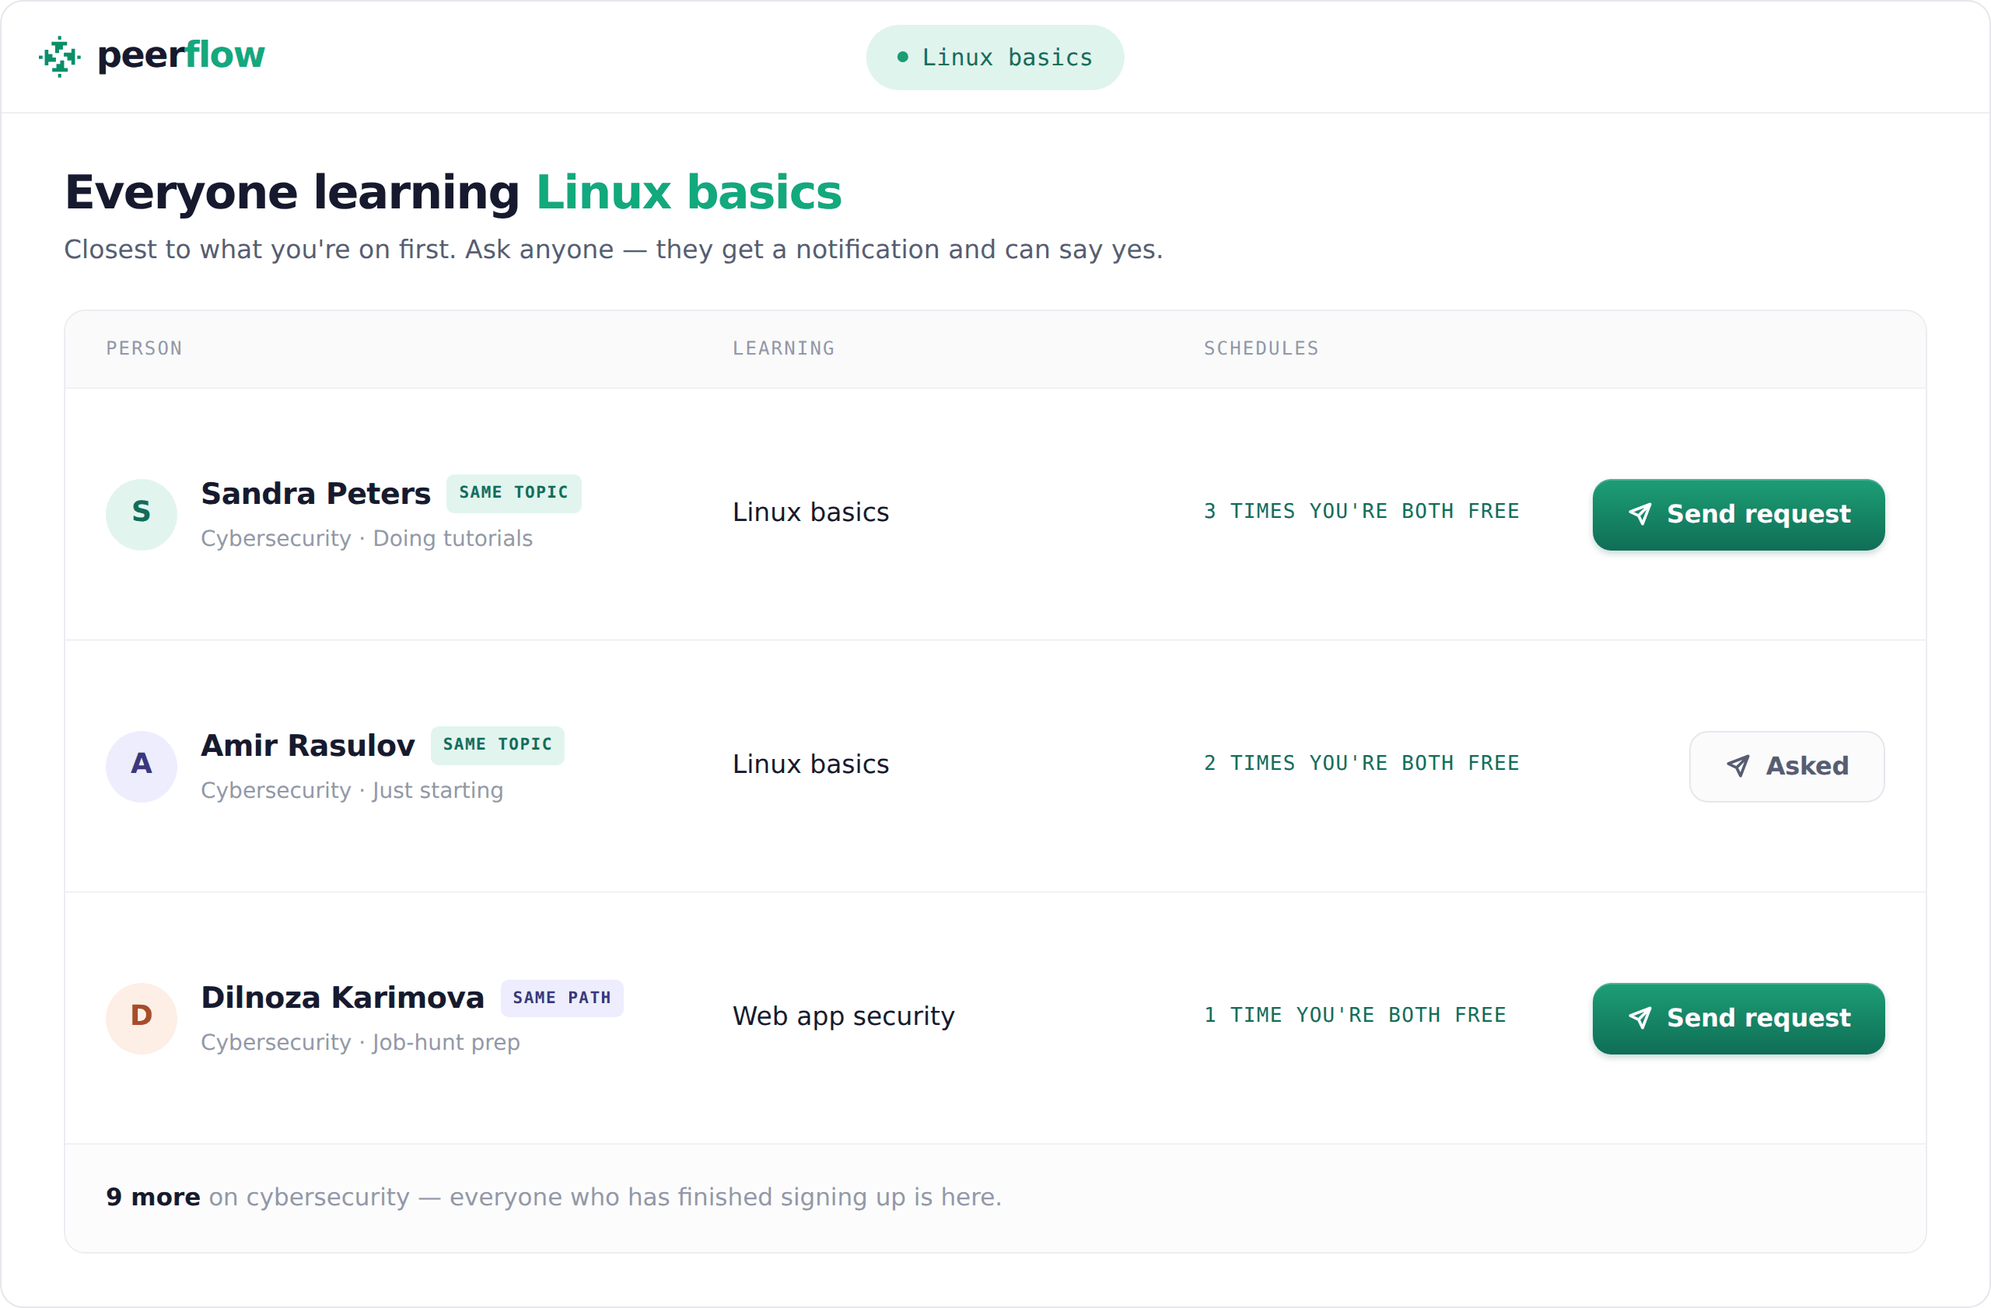
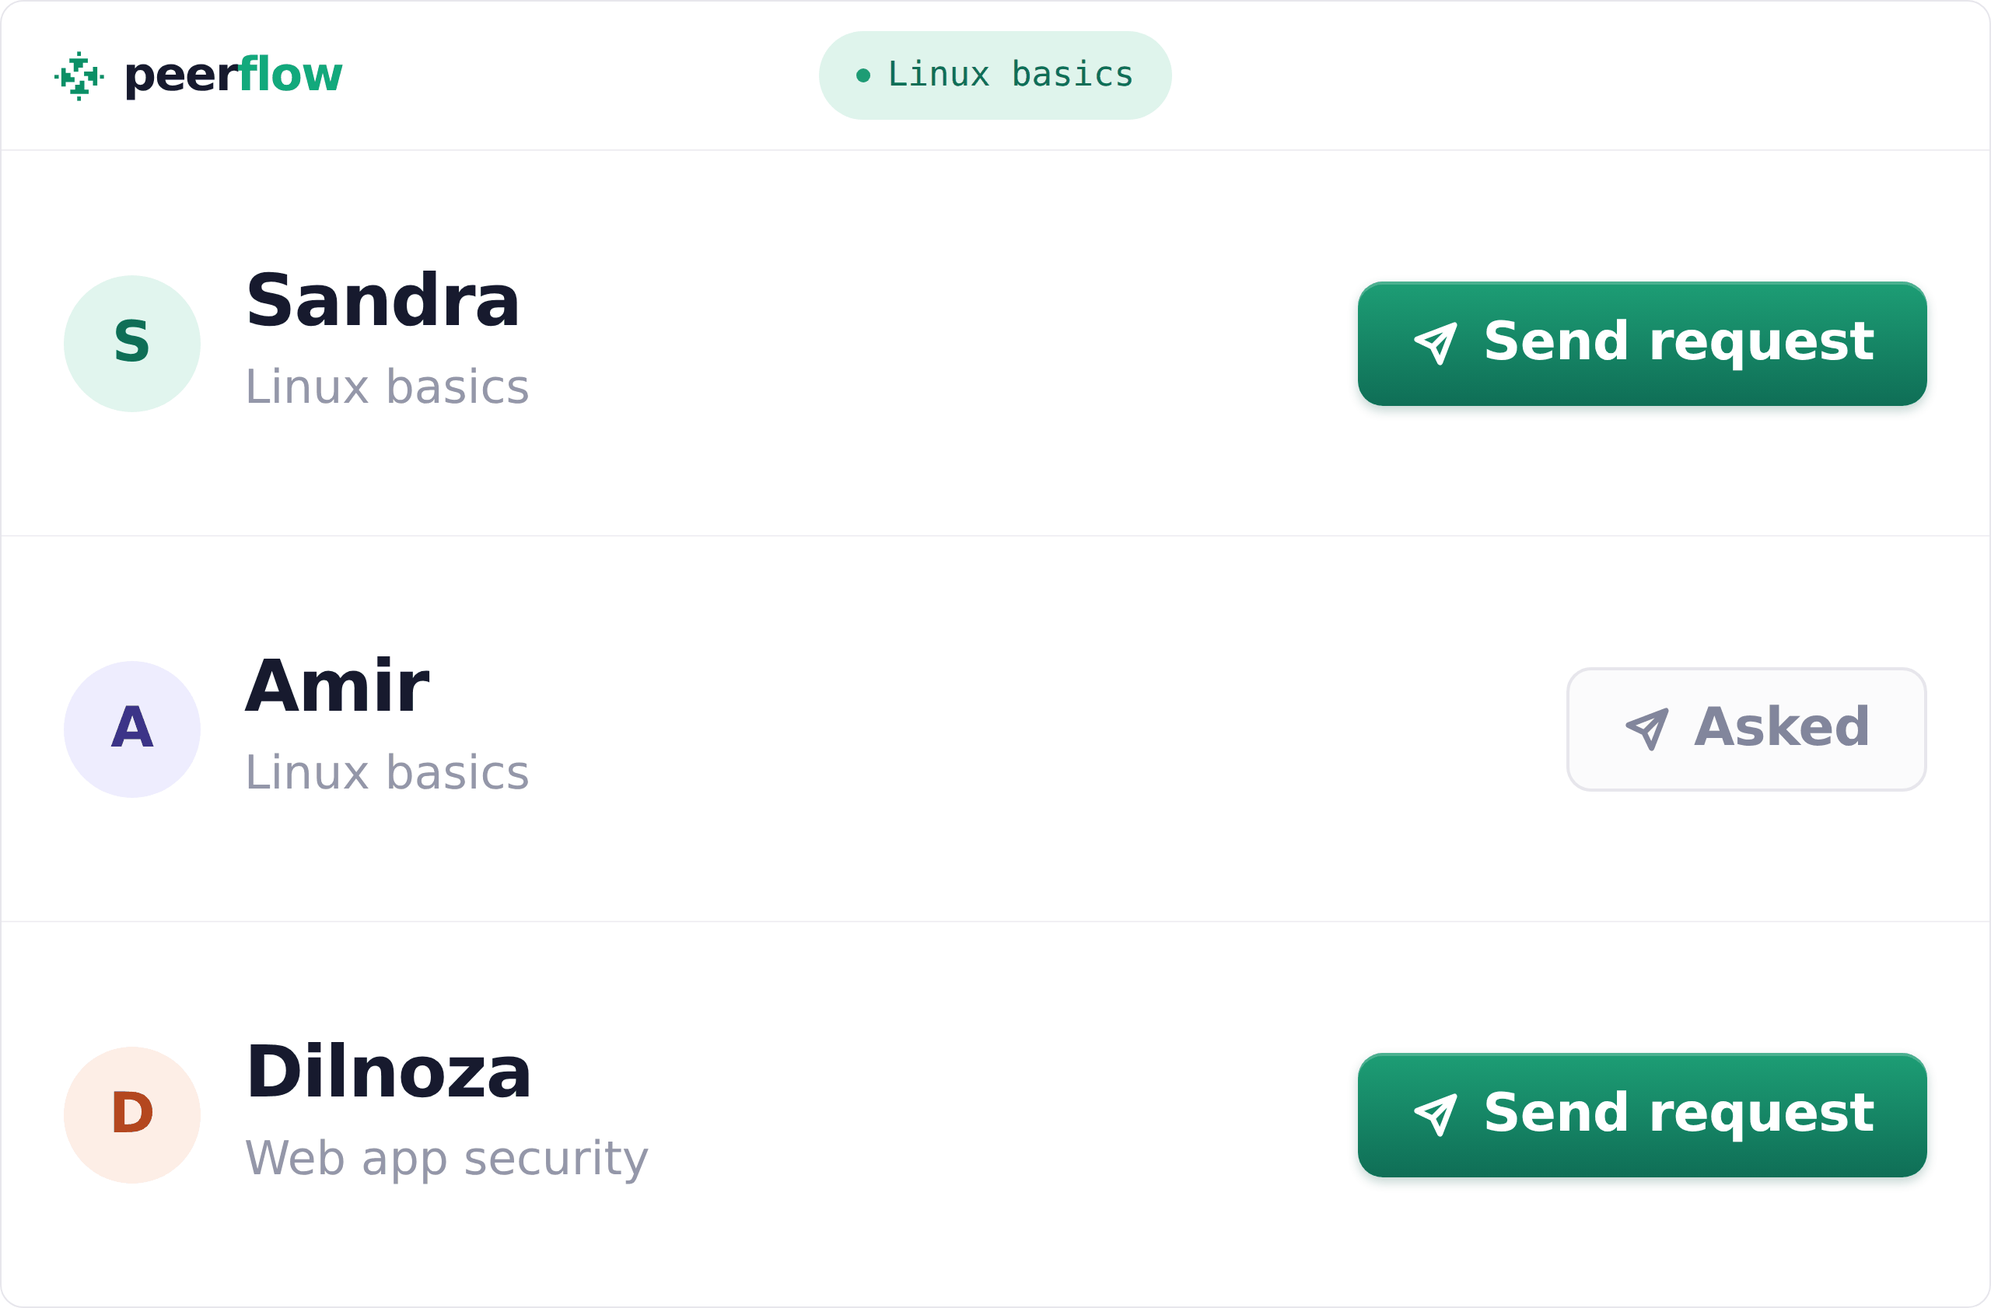
Redraw the step pictures for the size they are actually seen at
The three-across layout gives each picture 322px, a quarter of the canvas they
were drawn on. At that width a faithful screenshot is a grey blur: the table
header, the column of topics, the schedule counts and the tags all survive as
texture and none of them as information.

So they carry about a fifth of what they did. Finding someone is three rows of
avatar, first name, what they're learning, and a button — no columns, no tags,
no counts. Agreeing a time is three day tiles with one picked, the result in
one line, and the button. Everything is drawn near four times its final size,
which is why the type looks enormous at full resolution and correct at 322.

Both are lighter too, 53KB and 47KB, because there is less in them.

Claude-Session: https://claude.ai/code/session_01YKC4UuyUEYgQuEBKY8hLuJ

diff --git a/assets/how-frames.html b/assets/how-frames.html
@@ -2,207 +2,130 @@
 <html lang="en">
 <head>
 <meta charset="utf-8">
-<title>How it works — frames</title>
-<link rel="stylesheet" href="assets/app.css">
+<title>How it works — source for the step pictures</title>
+<link rel="stylesheet" href="app.css">
 <style>
+  /* These render to assets/how-1-find.png and assets/how-2-time.png.
+     They sit in a 322px-wide card on the landing page, which is a quarter of
+     this canvas — so everything is drawn about four times the size it will be
+     read at, and carries roughly a fifth of what the real screen does. A
+     faithful screenshot is a grey blur at that width; this has to land in one
+     glance or it isn't doing anything. */
   body{margin:0;background:#fff;font-family:var(--body)}
 
-  /* The frame, matched to the call mock-up: white card, hairline border,
-     a bar with the wordmark left and the topic pill centred. */
   .frame{width:1280px;height:841px;background:#fff;border:1px solid #E7E6EC;
-    border-radius:15px;overflow:hidden;display:flex;flex-direction:column;
-    margin:0 0 40px}
-  .fbar{height:72px;flex:0 0 auto;border-bottom:1px solid #EFEEF2;
-    display:flex;align-items:center;padding:0 24px;position:relative}
-  .fbrand{display:flex;align-items:center;gap:10px;font-size:23px;font-weight:800;
-    letter-spacing:-.03em;color:var(--ink)}
-  /* One text node, or the flex gap opens a space inside the word. */
-  .fbrand b{font-weight:800}
+    border-radius:15px;overflow:hidden;display:flex;flex-direction:column;margin:0 0 40px}
+
+  /* A slimmer version of the bar on the video-call frame. At final size it
+     reads as window chrome, which is the whole job. */
+  .fbar{height:96px;flex:0 0 auto;border-bottom:1px solid #EFEEF2;
+    display:flex;align-items:center;padding:0 34px;position:relative}
+  .fbrand{display:flex;align-items:center;gap:12px}
+  .fbrand b{font-size:30px;font-weight:800;letter-spacing:-.03em;color:var(--ink)}
   .fbrand .g{color:#12A97C}
-  .fpill{position:absolute;left:50%;transform:translateX(-50%);
-    display:inline-flex;align-items:center;gap:9px;background:#DFF4EC;
-    color:#0F6E56;font-family:var(--mono);font-size:15px;letter-spacing:.01em;
-    padding:9px 20px;border-radius:999px}
-  .fpill i{width:7px;height:7px;border-radius:50%;background:#1D9E75;display:block}
-  .fbody{flex:1;min-height:0;padding:34px 40px;display:flex;flex-direction:column}
+  .fpill{position:absolute;left:50%;transform:translateX(-50%);display:inline-flex;
+    align-items:center;gap:11px;background:#DFF4EC;color:#0F6E56;font-family:var(--mono);
+    font-size:22px;padding:11px 24px;border-radius:999px}
+  .fpill i{width:9px;height:9px;border-radius:50%;background:#1D9E75;display:block}
+  .fbody{flex:1;min-height:0;display:flex;flex-direction:column}
 
-  /* ---------- 1. people ---------- */
-  .h1{font-size:30px;font-weight:800;letter-spacing:-.028em;margin:0 0 6px}
-  .h1 .g{color:#12A97C}
-  .lede{font-size:16.5px;color:var(--soft);margin:0 0 24px}
-
-  .plist{border:1px solid #EDECF1;border-radius:14px;overflow:hidden;
-    flex:1;min-height:0;display:flex;flex-direction:column}
-  .prow{display:grid;grid-template-columns:minmax(0,1.35fr) minmax(0,1fr) 210px 210px;
-    align-items:center;gap:18px;padding:34px 26px;border-top:1px solid #F1F0F4;flex:1}
+  /* ---------- 1. three people, three buttons ---------- */
+  .prow{display:flex;align-items:center;gap:28px;padding:0 40px;flex:1;
+    border-top:1px solid #F1F0F4}
   .prow:first-child{border-top:0}
-  .phead{background:#FAFAFB;padding:15px 26px;font-family:var(--mono);font-size:12px;
-    letter-spacing:.09em;text-transform:uppercase;color:#9497A9;
-    display:grid;grid-template-columns:minmax(0,1.35fr) minmax(0,1fr) 210px 210px;gap:18px}
-  .pwho{display:flex;align-items:center;gap:15px;min-width:0}
-  .pav{width:46px;height:46px;border-radius:50%;flex:0 0 auto;display:grid;place-items:center;
-    font-size:18px;font-weight:800}
-  .pnm{font-size:19px;font-weight:700;letter-spacing:-.015em;display:flex;
-    align-items:center;gap:10px}
-  .ptag{font-family:var(--mono);font-size:10.5px;letter-spacing:.07em;text-transform:uppercase;
-    background:#E1F5EE;color:#0F6E56;padding:4px 8px;border-radius:5px}
-  .ptag.alt{background:#EEEDFE;color:#3C3489}
-  .psub{font-size:14px;color:#9497A9;margin-top:3px}
-  .ptp{font-size:16.5px;color:var(--ink)}
-  .pfree{font-family:var(--mono);font-size:13px;letter-spacing:.05em;text-transform:uppercase;
-    color:#0F6E56}
-  .pfree.none{color:#B6B8C4}
-  .pbtn{justify-self:end;height:46px;border-radius:12px;display:inline-flex;align-items:center;
-    justify-content:center;gap:9px;padding:0 22px;font-size:16px;font-weight:700;
-    letter-spacing:-.01em;white-space:nowrap;border:0;color:#fff;
+  .pav{width:88px;height:88px;border-radius:50%;flex:0 0 auto;display:grid;place-items:center;
+    font-size:36px;font-weight:800}
+  .pwho{flex:1;min-width:0}
+  .pnm{display:block;font-size:46px;font-weight:700;letter-spacing:-.02em;line-height:1.15}
+  .psub{display:block;font-size:30px;color:#9497A9;margin-top:6px}
+  .pbtn,.pdone{flex:0 0 auto;height:80px;border-radius:16px;display:inline-flex;
+    align-items:center;gap:14px;padding:0 34px;font-size:34px;font-weight:700;
+    letter-spacing:-.01em;white-space:nowrap}
+  .pbtn{border:0;color:#fff;background:linear-gradient(180deg,#1D9E75,#0F6E56);
+    box-shadow:0 3px 7px rgba(8,80,65,.24), inset 0 2px 0 rgba(255,255,255,.2)}
+  .pdone{border:2px solid #E7E6EC;background:#FBFBFC;color:#82869C}
+  .pbtn svg,.pdone svg{width:32px;height:32px;flex:0 0 auto}
+
+  /* ---------- 2. one time, one button ---------- */
+  .tbody{flex:1;display:flex;flex-direction:column;align-items:center;
+    justify-content:center;padding:0 40px}
+  .tkick{font-family:var(--mono);font-size:24px;letter-spacing:.1em;text-transform:uppercase;
+    color:#9497A9;margin:0 0 30px}
+  .tdays{display:flex;gap:20px;margin-bottom:46px}
+  .tday{width:150px;border:2px solid #E7E6EC;border-radius:20px;padding:20px 0 22px;
+    text-align:center;background:#fff}
+  .tday .w{display:block;font-family:var(--mono);font-size:22px;letter-spacing:.07em;
+    text-transform:uppercase;color:#9497A9}
+  .tday .d{display:block;font-size:54px;font-weight:800;letter-spacing:-.03em;
+    line-height:1.1;margin-top:2px;color:var(--ink)}
+  .tday.on{background:#0F6E56;border-color:#0F6E56}
+  .tday.on .w{color:#9FE1CB}
+  .tday.on .d{color:#fff}
+  .twhen{font-size:60px;font-weight:800;letter-spacing:-.03em;color:var(--ink);margin:0 0 40px}
+  .twhen .t{color:#0F6E56}
+  .tgo{height:92px;border-radius:18px;display:inline-flex;align-items:center;padding:0 44px;
+    font-size:36px;font-weight:700;letter-spacing:-.01em;color:#fff;
     background:linear-gradient(180deg,#1D9E75,#0F6E56);
-    box-shadow:0 2px 4px rgba(8,80,65,.22), inset 0 1px 0 rgba(255,255,255,.2)}
-  .pstate2{justify-self:end;height:46px;border-radius:12px;display:inline-flex;align-items:center;
-    justify-content:center;gap:9px;padding:0 22px;font-size:16px;font-weight:700;
-    letter-spacing:-.01em;white-space:nowrap;border:1px solid #E7E6EC;background:#FBFBFC;color:#585C74}
-  .pstate2 svg,.pbtn svg{width:17px;height:17px;flex:0 0 auto}
-  .pfoot{margin-top:auto;border-top:1px solid #F1F0F4;background:#FCFCFD;
-    padding:22px 26px;font-size:15.5px;color:#9497A9}
-  .pfoot b{color:var(--ink);font-weight:700}
-
-  /* ---------- 2. scheduling ---------- */
-  .sheet{border:1px solid #EDECF1;border-radius:16px;padding:34px 38px 38px;position:relative;
-    flex:1;min-height:0;display:flex;flex-direction:column}
-  .skick{font-family:var(--mono);font-size:12px;letter-spacing:.09em;text-transform:uppercase;
-    color:#0F6E56;margin:0 0 4px}
-  .stitle{font-size:22px;font-weight:700;letter-spacing:-.02em;margin:0 0 46px}
-  .ssent{font-size:31px;line-height:1.75;font-weight:500;color:#585C74;letter-spacing:-.018em;margin:0}
-  .sw{position:relative;display:inline-block}
-  .strig{font-size:31px;font-weight:800;color:#0F6E56;letter-spacing:-.024em;
-    border-bottom:3px solid #9FE1CB;padding:0 26px 3px 0;position:relative;display:inline-block}
-  .strig::after{content:"";position:absolute;top:50%;right:6px;width:10px;height:10px;
-    border-right:3px solid currentColor;border-bottom:3px solid currentColor;opacity:.55;
-    transform:translateY(-75%) rotate(45deg)}
-  .strig.open{color:#085041;border-bottom-color:#0F6E56}
-  .strig.open::after{transform:translateY(-30%) rotate(-135deg)}
-  .sline{margin:20px 0 0;font-size:17px;color:#9497A9}
-
-  .smenu{position:absolute;top:calc(100% + 14px);left:-10px;width:330px;z-index:5;
-    background:#fff;border:1px solid #E7E6EC;border-radius:16px;padding:7px;
-    box-shadow:0 20px 46px rgba(23,26,46,.16),0 3px 8px rgba(23,26,46,.06)}
-  .smh{font-family:var(--mono);font-size:11px;letter-spacing:.09em;text-transform:uppercase;
-    color:#9497A9;padding:11px 15px 7px}
-  .smsep{display:block;height:1px;background:#EFEEF2;margin:7px}
-  .smrow{display:flex;align-items:center;width:100%;padding:12px 15px;border-radius:11px;
-    font-size:18px;font-weight:600;color:var(--ink)}
-  .smrow.on{background:#E1F5EE;color:#085041}
-  .smrow .r{margin-left:auto;font-weight:400;font-size:16px;color:#9497A9}
-  .smrow.on .r{color:#0F6E56}
-  .smrow.mild{color:#0F6E56;font-size:17px}
-
-  .sform{margin:auto 0}
-  .snote{margin:40px 0 0}
-  .snote label{display:block;font-size:15px;font-weight:600;margin-bottom:8px}
-  .snote label span{color:#9497A9;font-weight:400}
-  .sbox{border:1px solid #E7E6EC;border-radius:12px;padding:15px 17px;font-size:17px;
-    color:#B6B8C4;max-width:520px}
-  .sacts{display:flex;align-items:center;gap:20px;margin-top:34px}
-  .sgo{height:54px;border-radius:12px;display:inline-flex;align-items:center;padding:0 28px;
-    font-size:18px;font-weight:700;letter-spacing:-.01em;color:#fff;
-    background:linear-gradient(180deg,#1D9E75,#0F6E56);
-    box-shadow:0 2px 5px rgba(8,80,65,.24), inset 0 1px 0 rgba(255,255,255,.2)}
-  .shint{font-size:16px;color:#9497A9}
+    box-shadow:0 3px 8px rgba(8,80,65,.26), inset 0 2px 0 rgba(255,255,255,.2)}
+  .tfoot{font-size:27px;color:#9497A9;margin:26px 0 0}
 </style>
 </head>
 <body>
 
 <!-- ============ 1. find someone ============ -->
-<div class="frame" id="f-people">
+<div class="frame" id="f-find">
   <div class="fbar">
     <span class="fbrand">
-      <svg width="27" height="27" viewBox="0 0 173 171" fill="#0b8f66"><rect x="79" y="0" width="13" height="15"/><rect x="0" y="81" width="15" height="13"/><rect x="158" y="81" width="14" height="13"/><rect x="79" y="156" width="13" height="15"/><path d="M52 24H116V39H99V56H83V70H67V39H52Z"/><path d="M24 57H39V74H56V89H70V106H39V121H24Z"/><path d="M134 53H149V118H134V101H117V85H103V69H134Z"/><path d="M119 147H55V132H72V115H88V101H104V132H119Z"/></svg>
+      <svg width="32" height="32" viewBox="0 0 173 171" fill="#0b8f66"><rect x="79" y="0" width="13" height="15"/><rect x="0" y="81" width="15" height="13"/><rect x="158" y="81" width="14" height="13"/><rect x="79" y="156" width="13" height="15"/><path d="M52 24H116V39H99V56H83V70H67V39H52Z"/><path d="M24 57H39V74H56V89H70V106H39V121H24Z"/><path d="M134 53H149V118H134V101H117V85H103V69H134Z"/><path d="M119 147H55V132H72V115H88V101H104V132H119Z"/></svg>
       <b>peer<span class="g">flow</span></b>
     </span>
     <span class="fpill"><i></i>Linux basics</span>
   </div>
   <div class="fbody">
-    <h1 class="h1">Everyone learning <span class="g">Linux basics</span></h1>
-    <p class="lede">Closest to what you're on first. Ask anyone — they get a notification and can say yes.</p>
-
-    <div class="plist">
-      <div class="phead"><span>Person</span><span>Learning</span><span>Schedules</span><span></span></div>
-
-      <div class="prow">
-        <div class="pwho">
-          <span class="pav" style="background:#E1F5EE;color:#0F6E56">S</span>
-          <div><div class="pnm">Sandra Peters <span class="ptag">same topic</span></div>
-            <div class="psub">Cybersecurity · Doing tutorials</div></div>
-        </div>
-        <div class="ptp">Linux basics</div>
-        <div class="pfree">3 times you're both free</div>
-        <button class="pbtn">
-          <svg viewBox="0 0 16 16" fill="none"><path d="M14 2L7 9M14 2l-4.6 12-2.4-5-5-2.4L14 2z" stroke="currentColor" stroke-width="1.7" stroke-linejoin="round"/></svg>
-          Send request</button>
-      </div>
-
-      <div class="prow">
-        <div class="pwho">
-          <span class="pav" style="background:#EEEDFE;color:#3C3489">A</span>
-          <div><div class="pnm">Amir Rasulov <span class="ptag">same topic</span></div>
-            <div class="psub">Cybersecurity · Just starting</div></div>
-        </div>
-        <div class="ptp">Linux basics</div>
-        <div class="pfree">2 times you're both free</div>
-        <span class="pstate2">
-          <svg viewBox="0 0 16 16" fill="none"><path d="M14 2L7 9M14 2l-4.6 12-2.4-5-5-2.4L14 2z" stroke="currentColor" stroke-width="1.7" stroke-linejoin="round"/></svg>
-          Asked</span>
-      </div>
-
-      <div class="prow">
-        <div class="pwho">
-          <span class="pav" style="background:#FDEEE6;color:#B4471F">D</span>
-          <div><div class="pnm">Dilnoza Karimova <span class="ptag alt">same path</span></div>
-            <div class="psub">Cybersecurity · Job-hunt prep</div></div>
-        </div>
-        <div class="ptp">Web app security</div>
-        <div class="pfree">1 time you're both free</div>
-        <button class="pbtn">
-          <svg viewBox="0 0 16 16" fill="none"><path d="M14 2L7 9M14 2l-4.6 12-2.4-5-5-2.4L14 2z" stroke="currentColor" stroke-width="1.7" stroke-linejoin="round"/></svg>
-          Send request</button>
-      </div>
-
-      <div class="pfoot"><b>9 more</b> on cybersecurity — everyone who has finished signing up is here.</div>
+    <div class="prow">
+      <span class="pav" style="background:#E1F5EE;color:#0F6E56">S</span>
+      <span class="pwho"><span class="pnm">Sandra</span><span class="psub">Linux basics</span></span>
+      <span class="pbtn">
+        <svg viewBox="0 0 16 16" fill="none"><path d="M14 2L7 9M14 2l-4.6 12-2.4-5-5-2.4L14 2z" stroke="currentColor" stroke-width="1.8" stroke-linejoin="round"/></svg>
+        Send request</span>
+    </div>
+    <div class="prow">
+      <span class="pav" style="background:#EEEDFE;color:#3C3489">A</span>
+      <span class="pwho"><span class="pnm">Amir</span><span class="psub">Linux basics</span></span>
+      <span class="pdone">
+        <svg viewBox="0 0 16 16" fill="none"><path d="M14 2L7 9M14 2l-4.6 12-2.4-5-5-2.4L14 2z" stroke="currentColor" stroke-width="1.8" stroke-linejoin="round"/></svg>
+        Asked</span>
+    </div>
+    <div class="prow">
+      <span class="pav" style="background:#FDEEE6;color:#B4471F">D</span>
+      <span class="pwho"><span class="pnm">Dilnoza</span><span class="psub">Web app security</span></span>
+      <span class="pbtn">
+        <svg viewBox="0 0 16 16" fill="none"><path d="M14 2L7 9M14 2l-4.6 12-2.4-5-5-2.4L14 2z" stroke="currentColor" stroke-width="1.8" stroke-linejoin="round"/></svg>
+        Send request</span>
     </div>
   </div>
 </div>
 
 <!-- ============ 2. agree a time ============ -->
-<div class="frame" id="f-book">
+<div class="frame" id="f-time">
   <div class="fbar">
     <span class="fbrand">
-      <svg width="27" height="27" viewBox="0 0 173 171" fill="#0b8f66"><rect x="79" y="0" width="13" height="15"/><rect x="0" y="81" width="15" height="13"/><rect x="158" y="81" width="14" height="13"/><rect x="79" y="156" width="13" height="15"/><path d="M52 24H116V39H99V56H83V70H67V39H52Z"/><path d="M24 57H39V74H56V89H70V106H39V121H24Z"/><path d="M134 53H149V118H134V101H117V85H103V69H134Z"/><path d="M119 147H55V132H72V115H88V101H104V132H119Z"/></svg>
+      <svg width="32" height="32" viewBox="0 0 173 171" fill="#0b8f66"><rect x="79" y="0" width="13" height="15"/><rect x="0" y="81" width="15" height="13"/><rect x="158" y="81" width="14" height="13"/><rect x="79" y="156" width="13" height="15"/><path d="M52 24H116V39H99V56H83V70H67V39H52Z"/><path d="M24 57H39V74H56V89H70V106H39V121H24Z"/><path d="M134 53H149V118H134V101H117V85H103V69H134Z"/><path d="M119 147H55V132H72V115H88V101H104V132H119Z"/></svg>
       <b>peer<span class="g">flow</span></b>
     </span>
     <span class="fpill"><i></i>Linux basics</span>
   </div>
   <div class="fbody">
-    <h1 class="h1">You and <span class="g">Sandra</span> are partners</h1>
-    <p class="lede">Pick a time you're both free. Nothing is booked until Sandra accepts.</p>
-
-    <div class="sheet">
-      <p class="skick">Book</p>
-      <p class="stitle">Propose a time</p>
-
-      <div class="sform"><p class="ssent">Meet <span class="strig">Sandra</span> on
-        <span class="strig">Tuesday, 4 Nov</span> at
-        <span class="strig">7:00 PM</span> for
-        <span class="strig">50 minutes</span>.</p>
-      <p class="sline">You’re both free in the evening that day.</p>
-
-      <div class="snote">
-        <label>Note <span>(optional)</span></label>
-        <div class="sbox">What you’d like to work on</div>
+    <div class="tbody">
+      <p class="tkick">Times you're both free</p>
+      <div class="tdays">
+        <div class="tday on"><span class="w">Tue</span><span class="d">4</span></div>
+        <div class="tday"><span class="w">Thu</span><span class="d">6</span></div>
+        <div class="tday"><span class="w">Sat</span><span class="d">8</span></div>
       </div>
-      <div class="sacts">
-        <span class="sgo">Propose this time</span>
-        <span class="shint">Sandra can accept or suggest another time.</span>
-      </div>
-      </div>
+      <p class="twhen">Tuesday at <span class="t">7:00 PM</span></p>
+      <span class="tgo">Propose this time</span>
+      <p class="tfoot">Nothing is booked until Sandra accepts.</p>
     </div>
   </div>
 </div>
